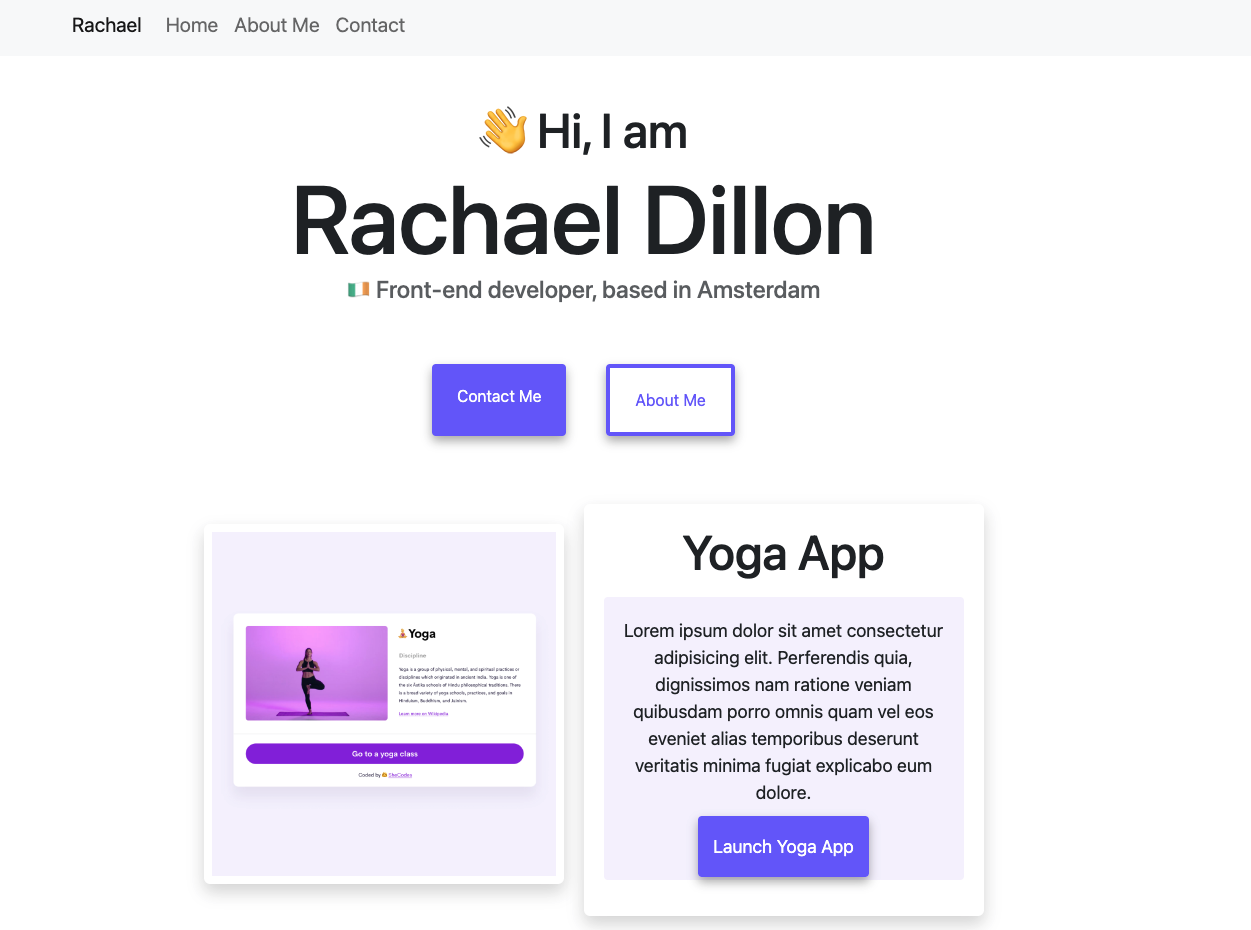
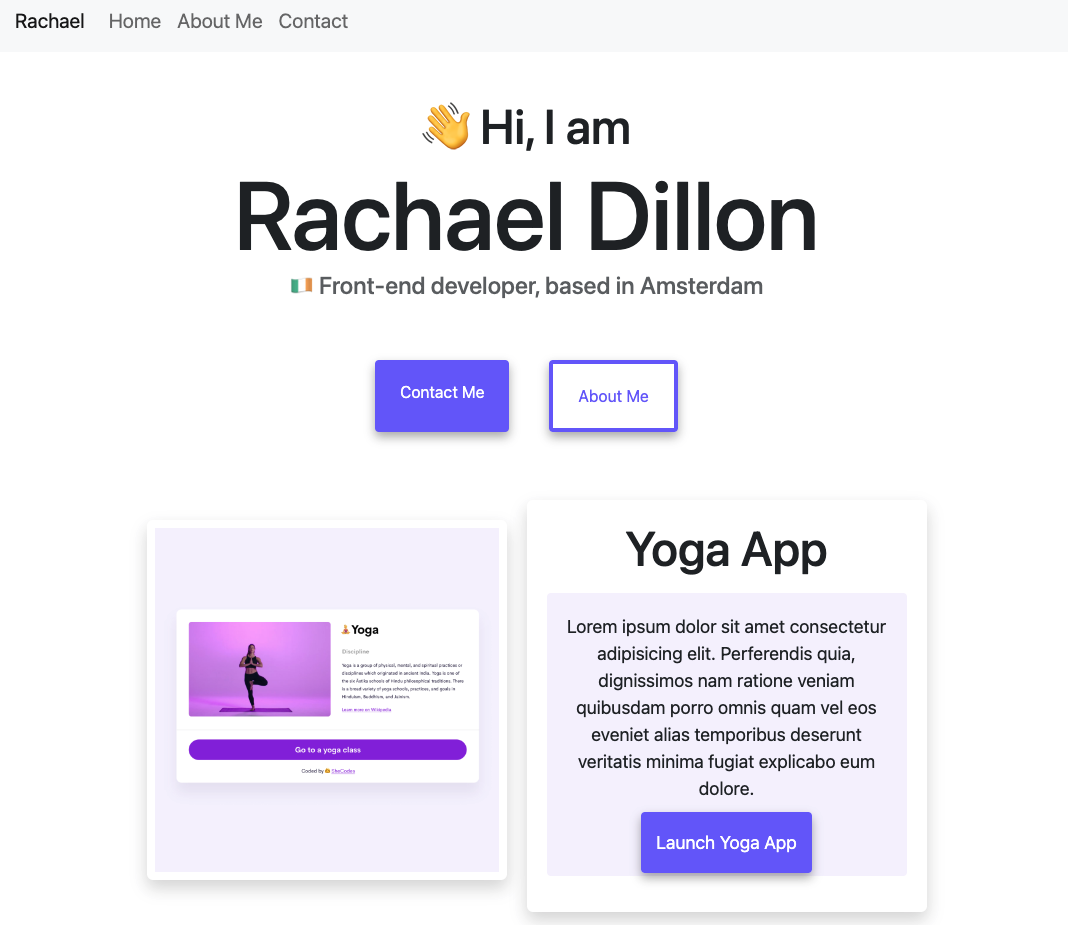
added links to projects and finalised img sizing

diff --git a/index.html b/index.html
@@ -59,17 +59,17 @@
 <div class="container d-flex">
   <div class="row">
     <div class="col">
-     <img src="media/irishwildflowers.png" class="img-fluid rounded p-2 shadow">
+     <img src="media/wildflowers2.png" class=" img-fluid rounded p-2 shadow d-flex">
      <p class="text-center mt-3 p-3"> Nisl faucibus quis urna nibh ut amet diam suscipit pretium massa sollicitudin in risus in sagittis nisl faucibus quis urna nibh ut amet  diam suscipit pretium massa, sollicitudin in risus in. Sagittis </p>
+    <a href="" class="primary-link"> learn more</a></div>
+    <div class="col">
+      <img src="media/pratice-portfolio.png" class="img-fluid rounded p-2 shadow d-flex">
+      <p class="mt-5 p-3 text text-center"> Nisl faucibus quis urna nibh ut amet diam suscipit pretium massa sollicitudin in risus in sagittis nisl faucibus quis urna nibh ut amet  diam suscipit pretium massa, sollicitudin in risus in. Sagittis</p> <a href="" class="primary-link"> learn more</a>
     </div>
     <div class="col">
-      <img src="media/weatherproject.png" class="img-fluid rounded p-2 shadow">
-      <p class="mt-5 p-3 text text-center"> Nisl faucibus quis urna nibh ut amet diam suscipit pretium massa sollicitudin in risus in sagittis nisl faucibus quis urna nibh ut amet  diam suscipit pretium massa, sollicitudin in risus in. Sagittis</p>
-    </div>
-    <div class="col">
-   <img src="media/pratice-portfolio.png" class="img-fluid rounded p-2 shadow" id="proj">
+   <img src="media/weatherproject2.png" class="img-fluid rounded p-2 shadow d-flex">
    <p class="text-center mt-3 p-3"> Nisl faucibus quis urna nibh ut amet diam suscipit pretium massa sollicitudin in risus in sagittis nisl faucibus quis urna nibh ut amet  diam suscipit pretium massa, sollicitudin in risus in. Sagittis</p>
-    </div>
+   <a href="" class="primary-link"> learn more</a> </div>
   </div>
 </div>
   </body>

diff --git a/styles/portfolio.css b/styles/portfolio.css
@@ -3,6 +3,7 @@
   --font-family: "nunito", sans-serif;
   --primary-color: #cadefc;
   --secondary-color: #c3bef0;
+  --box-shadow: 0 5px 10px rgba(0, 0, 0, 0.3);
 }
 
 body {
@@ -66,7 +67,7 @@ p {
   width: 400px;
   height: auto;
   padding: 30px;
-  border-radius: 4px;
+  display: flex;
 }
 
 .about-description {
@@ -80,4 +81,24 @@ p {
 #proj {
   height: 350px;
   width: auto;
+}
+
+.project-img {
+  width: 0 auto;
+}
+
+.primary-link {
+  background: var(--branding-color);
+  color: white;
+  text-decoration: none;
+  margin-left: 150px;
+  justify-content: center;
+  display: inline;
+  margin-top: 15px;
+  box-shadow: var(--box-shadow);
+  border-radius: 4px;
+  padding: 20px 15px;
+  text-decoration: none;
+  text-transform: capitalize;
+  font-family: var(--font-family);
 }
